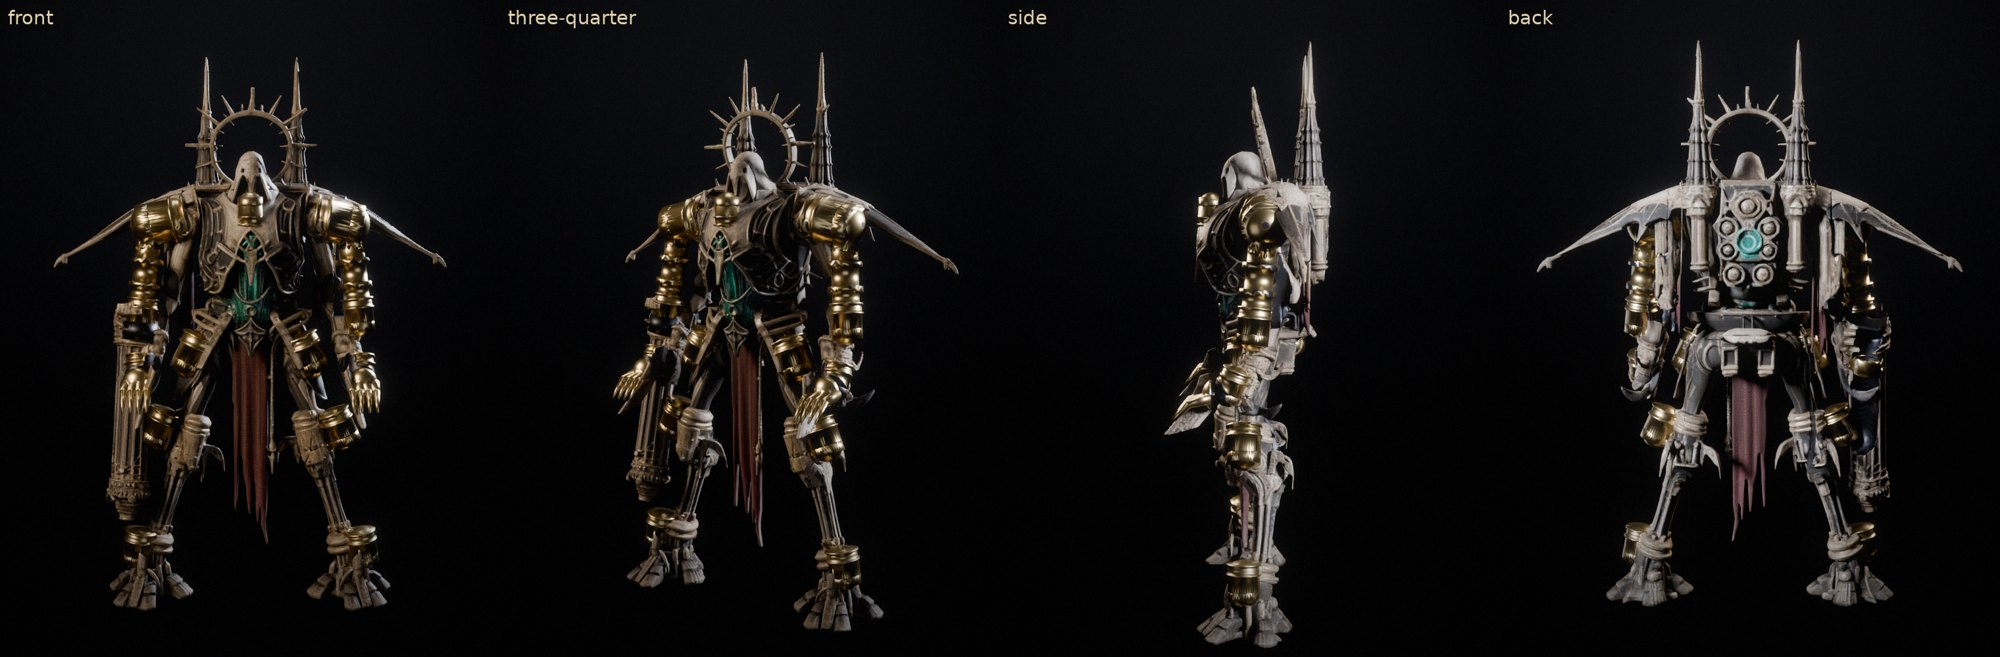
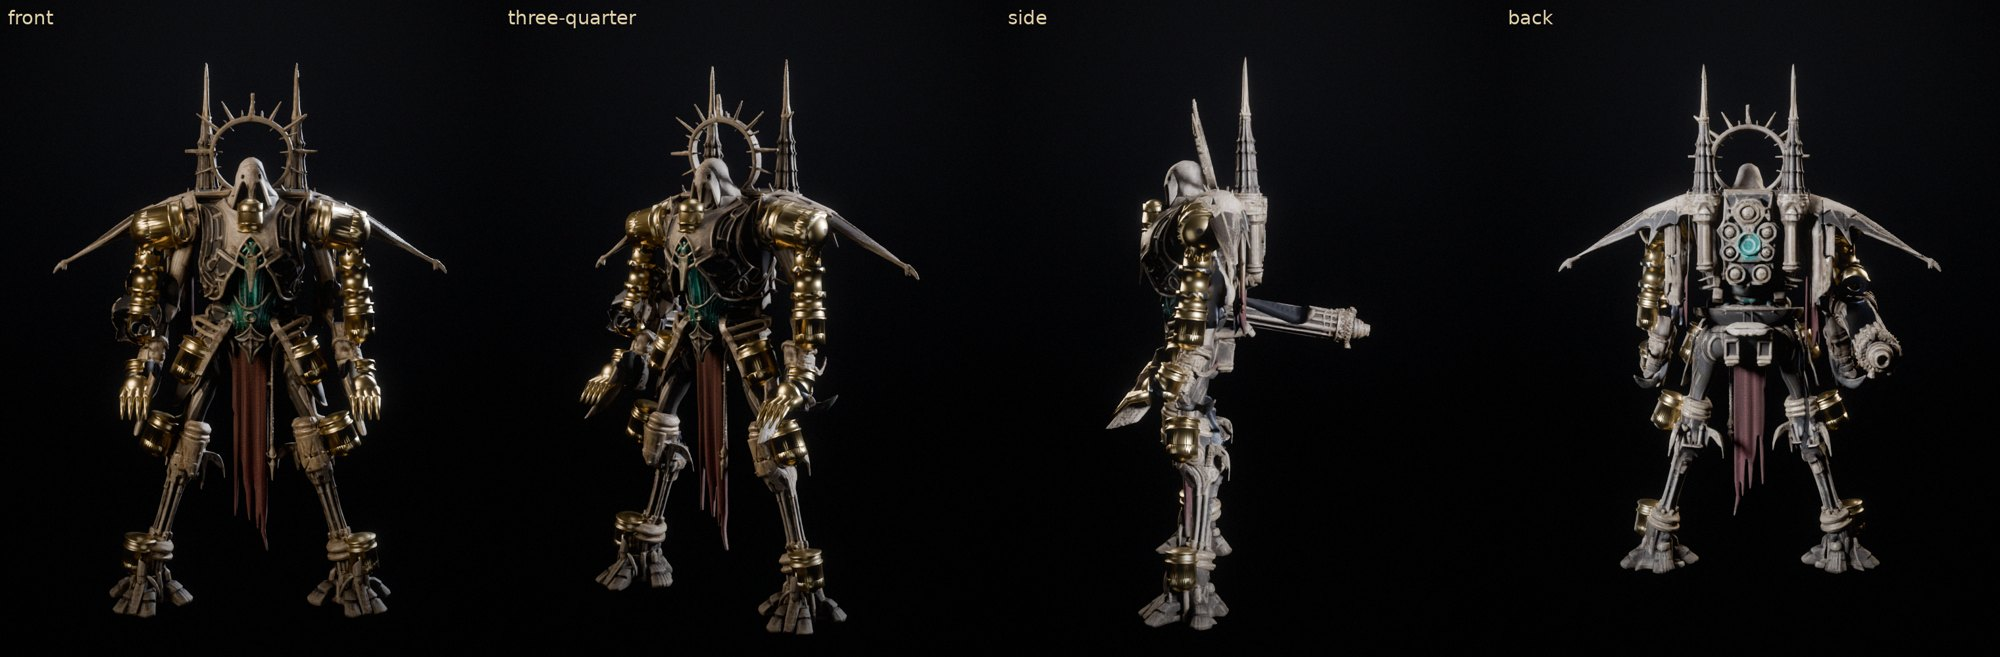
Goliath: show the Arc Cannon held level; preview of the Seer's wrist claws and spear on the Goliath's wrist
Claude-Session: https://claude.ai/code/session_01Y2rKcpXZVkjcxQG7LVq7Cq

diff --git a/assets/blender/parts/composite/goliath_items_preview.py b/assets/blender/parts/composite/goliath_items_preview.py
@@ -1,0 +1,51 @@
+"""Preview: the Seer's wrist items (kinetic claws, arc spear) on the Goliath's wrist, in place of the hand. Render only."""
+import math, sys
+from pathlib import Path
+import bpy
+import numpy as np
+from mathutils import Matrix, Vector, Euler
+sys.path.insert(0, "/home/user/mech-tabletop/assets/blender/parts/composite")
+sys.path.insert(0, "/home/user/mech-tabletop/assets/blender")
+import kit
+from kit.render import studio, shot, post
+OUT = Path(sys.argv[sys.argv.index("--") + 1])
+SW = Vector((14.811, -2.691, 25.972)); SA = Vector((0.2456, -0.6189, -0.746))     # Seer wrist, blade axis (from fit.json)
+SCALE = 1.25
+bpy.ops.wm.open_mainfile(filepath=str(OUT / "goliath_composite.blend"))
+studio()
+obs = {o.name: o for o in bpy.data.objects if o.type == "MESH"}
+bpy.data.objects["gun_R"].rotation_euler = Euler((math.radians(-90), 0, 0))
+bpy.context.view_layer.update()
+def wpos(o): return o.matrix_world.translation.copy()
+def item(name, stl, mat_col):
+    bpy.ops.wm.stl_import(filepath=stl)
+    o = bpy.context.selected_objects[0]
+    elbow, wrist = wpos(obs["forearm_L"]), wpos(obs["hand_L"])
+    out = (wrist - elbow).normalized()
+    rot = SA.rotation_difference(out).to_matrix().to_4x4()
+    M = Matrix.Translation(wrist) @ rot @ Matrix.Scale(SCALE, 4) @ Matrix.Translation(-SW)
+    o.data.transform(M); o.name = name
+    m = bpy.data.materials.new(name); m.use_nodes = True
+    b = m.node_tree.nodes["Principled BSDF"]; b.inputs["Base Color"].default_value = mat_col; b.inputs["Metallic"].default_value = 1.0; b.inputs["Roughness"].default_value = 0.35
+    o.data.materials.append(m)
+    return o
+claws = item("claws", "/mnt/project-files/models/seer-wrist/stl/kinetic-claws.stl", (0.62, 0.45, 0.2, 1))
+spear = item("spear", "/mnt/project-files/models/seer-wrist/stl/arc-cannon.stl", (0.62, 0.45, 0.2, 1))
+for o in obs.values():
+    if o.get("spare"): o.hide_render = True
+paths = []
+for label, it, other in (("claws", claws, spear), ("spear", spear, claws)):
+    other.hide_render = True; it.hide_render = False
+    obs["hand_L"].hide_render = True
+    for az in (20, 60, 100):
+        p = OUT / f"_i_{label}_{az}.png"
+        shot([it, obs["forearm_L"], obs["arm_L"]], p, az=az, el=8, samples=48, res=(700, 800), margin=1.1)
+        post(p); paths.append(p)
+from PIL import Image, ImageDraw
+ims = [Image.open(p).convert("RGB") for p in paths]
+w, h = ims[0].size
+S = Image.new("RGB", (w * 3, h * 2 + 30), (12, 12, 14)); d = ImageDraw.Draw(S)
+for i, im in enumerate(ims): S.paste(im, ((i % 3) * w, (i // 3) * h + 30))
+d.text((10, 8), "Kinetic claws (top) and arc spear (bottom) on the Goliath's wrist, in place of the hand (preview: Seer parts, 1.25x)", fill=(225, 210, 170))
+S.save(OUT / "items-preview.png")
+for p in paths: p.unlink()

diff --git a/assets/blender/parts/composite/render.py b/assets/blender/parts/composite/render.py
@@ -81,6 +81,11 @@ def main(a):
 
     if only in (None, "assembled"):
         hide_all_but(meshes())
+        hold = getattr(M, "HOLD", {})      # how the figure stands in the assembled view (the Goliath holds its cannon level)
+        for name, rot in hold.items():
+            if name in obs:
+                obs[name].rotation_euler = Euler([math.radians(v) for v in rot])
+        bpy.context.view_layer.update()
         paths = []
         for az in (0, 35, 90, 180):
             p = rd / f"_asm_{az}.png"
@@ -88,6 +93,10 @@ def main(a):
             post(p)
             paths.append(p)
         sheet(paths, rd / "assembled.png", 4, ["front", "three-quarter", "side", "back"])
+        for name in hold:
+            if name in obs:
+                obs[name].rotation_euler = Euler((0, 0, 0))
+        bpy.context.view_layer.update()
 
     if only in (None, "exploded"):
         hide_all_but(meshes())

diff --git a/assets/blender/parts/composite/goliath.py b/assets/blender/parts/composite/goliath.py
@@ -238,6 +238,7 @@ LABEL = {
     "shin": "Shin", "foot": "Foot", "gun": "Arc Cannon (equipment)",
 }
 EXPLODE, EXPLODE_DROP = 11.0, 4.0
+HOLD = {"gun_R": (-90, 0, 0)}                   # assembled view: the Arc Cannon held level, as in the concept art
 POSE = {
     "gun_R": (-90, 0, 0), "arm_L": (-25, 0, 0), "forearm_L": (-35, 0, 0), "helm": (0, 0, -20),
     "thigh_L": (-18, 0, 0), "shin_L": (22, 0, 0), "foot_L": (-4, 0, 0),

diff --git a/docs/goliath-composite/README.md b/docs/goliath-composite/README.md
@@ -11,6 +11,7 @@ shared composite pipeline (`MODEL=goliath`, settings in `assets/blender/parts/co
 | `exploded.jpg` | every part pulled apart, front and back |
 | `parts.jpg` | each part alone |
 | `pose.jpg` | posed by rotating joints (Arc Cannon raised, legs striding) |
+| `items-preview.jpg` | the Seer's kinetic claws and arc spear on the Goliath's wrist in place of the hand (preview only) |
 
 `docs/concept-art/goliath/mesh-vs-turnaround.jpg` is the silhouette check (gate D): the Meshy mesh matched the turnaround in all three views.
 
@@ -48,6 +49,17 @@ looked like gold top hats, so they are 80% of that.
 | shin into thigh, foot / shin | 2.0 | 2.2 | 2 x 1 |
 
 All pass the strict checks (hole walls inside the part, no break-outs, mirrored side clear).
+
+## Cannon pose and wrist items (2026-11-07, Luke: "gun looks weird, how would the claw or spear fit")
+
+- **Cannon.** The assembled view showed the cannon hanging straight down beside the leg, because the parts are cut with the arm
+  hanging. It is now shown held level and forward, as in the concept art (`HOLD` in goliath.py, used by render.py). It is a render pose: the
+  gun sits on the elbow's ball knuckle, so the elbow can be turned that way on the table.
+- **Claws and spear.** The hand plugs into the forearm at the wrist knuckle (1.75 mm peg, 2 x 1 magnet). Wrist items take the hand's place on
+  that same socket, as on the Seer (`seer_wrist.py`): each carries a copy of the hand's half ball and peg and continues the arm.
+  `items-preview.jpg` shows the Seer's kinetic claws and arc spear, scaled 1.25x, on the Goliath's wrist.
+  **That is a preview only**: they are the Seer's STLs with the Seer's peg, not yet rebuilt with the Goliath hand's peg, and the game has
+  no Goliath hardpoints yet (`goliath_items_preview.py` makes the picture).
 
 ## Things to know
 
